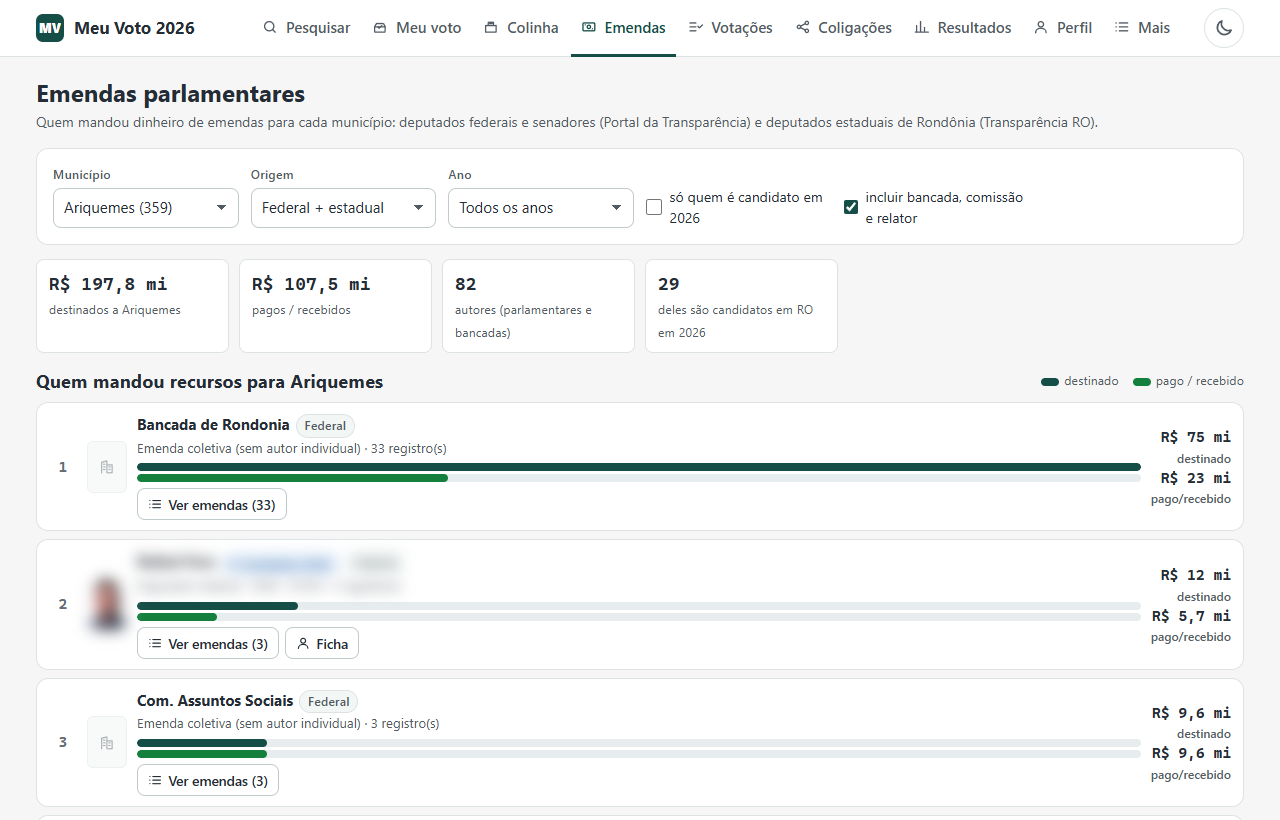
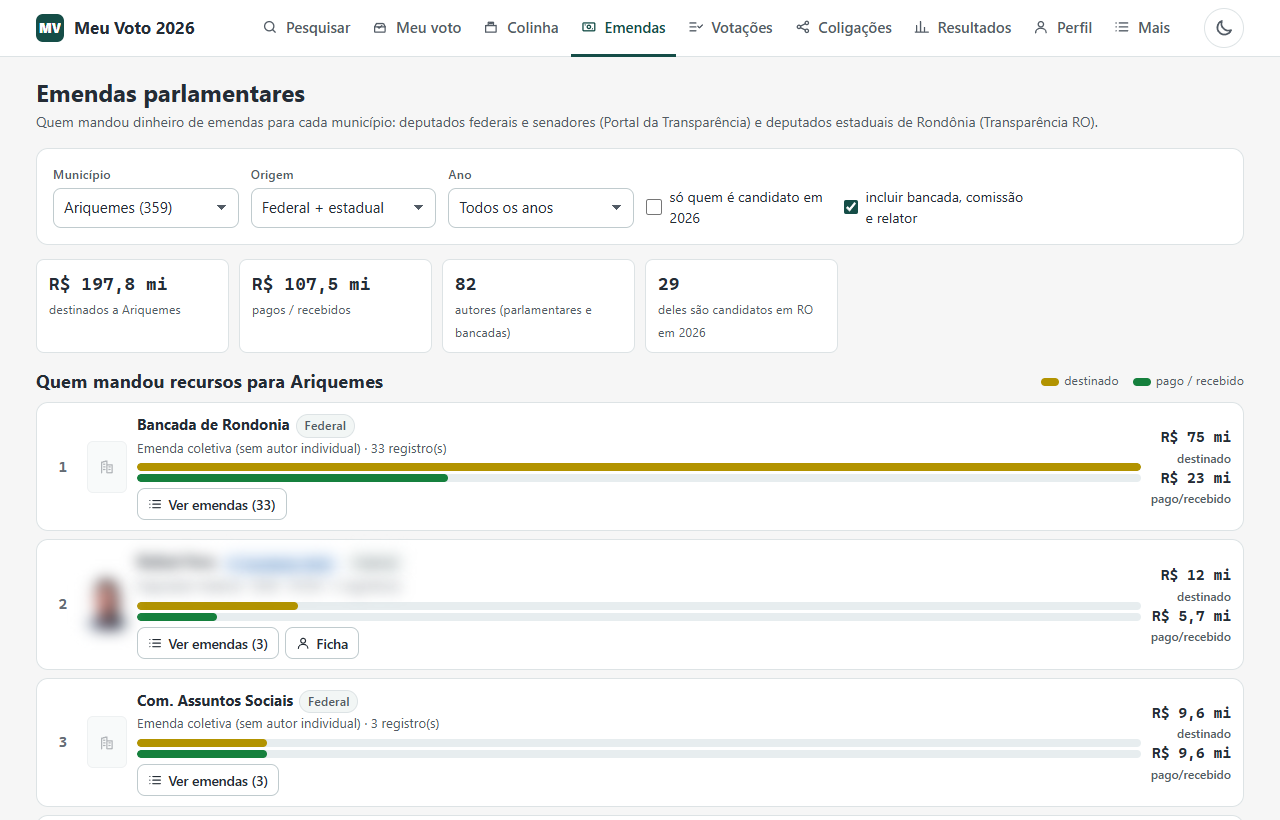
docs(readme): documenta o mapa do Brasil e refaz a captura das emendas

diff --git a/README.md b/README.md
@@ -48,7 +48,8 @@ apenas Rondônia.
   reais (quociente eleitoral, quociente partidário, sobras) e estatísticas (participação por cidade, mais
   votado em cada cidade, perfil dos eleitos, gasto declarado por voto). Para presidente, governador e senador,
   o 1º colocado aparece em destaque e os demais em barras. Um **mapa do estado** mostra o mais votado em cada
-  município, com a cor do partido.
+  município, com a cor do partido. Para presidente, a opção **Brasil** no filtro de estado mostra o **mapa do
+  Brasil** com o mais votado em cada estado; clicar num estado abre o resultado de lá, cidade por cidade.
 - **Tema claro ou escuro**: botão de sol/lua no topo de todas as telas. A escolha fica salva; em Mais dá para
   voltar ao automático, que segue o sistema. As cores seguem a paleta da divulgação de resultados do TSE
   (verde-petróleo e dourado).
@@ -92,6 +93,8 @@ apenas Rondônia.
 | **Resultados** — votos de cada candidato cidade por cidade, situação e por que não foi eleito. | **Resultados** — o cálculo das vagas com os números reais do TSE. |
 | ![Resultados: governador de RO, 1º colocado em destaque e demais em barras](docs/img/resultados-corrida.png) | ![Resultados: mapa de RO com o mais votado em cada município, tema escuro](docs/img/resultados-mapa.png) |
 | **Resultados** — cargos majoritários: 1º colocado em destaque e barras na cor do partido (tema claro). | **Resultados** — mapa do mais votado em cada cidade; clique abre o candidato (tema escuro). |
+| ![Resultados: mapa do Brasil com o mais votado para presidente em cada estado](docs/img/resultados-brasil.png) | |
+| **Resultados** — presidente no Brasil inteiro: mapa por estado; clique leva ao estado. | |
 
 Imagens geradas com os dados oficiais de outubro de 2026 (resultados do 1º turno) e o Perfil em Ariquemes/RO,
 no tema claro (o mapa, no escuro). Quando um candidato aparece sozinho em destaque (Emendas, Colinha, celular,
@@ -290,7 +293,7 @@ python scripts/fetch_votacoes_federais.py --desde 2023 # só a legislatura atual
 python scripts/fetch_resultados.py            # site de divulgação do TSE -> raw/resultados2026/t1/ (~1 min)
 python scripts/baixar_tse.py --so votacao_candidato_munzona_2026   # votos por município e zona (316 MB)
 python scripts/build_resultados.py            # -> data/resultados_XX.js (27 UFs + BR, ~1 min)
-python scripts/build_mapas.py                 # contorno dos municípios (IBGE) -> data/mapa_XX.js (27 UFs, ~800 KB)
+python scripts/build_mapas.py                 # contornos do IBGE -> data/mapa_XX.js (municípios das 27 UFs + estados em mapa_BR.js, ~810 KB)
 python scripts/fetch_resultados.py --turno 2  # depois de 25/10 (2º turno)
 ```
 
@@ -306,7 +309,7 @@ python scripts/fetch_resultados.py --turno 2  # depois de 25/10 (2º turno)
   for idêntico ao do TSE** (quociente, vagas de cada lista e eleitos). As explicações e o "quantos votos
   faltaram" só são gerados sobre esse cálculo conferido. Cargo que o TSE ainda não proclamou (ex.: "Aguarde
   reprocessamento da eleição") aparece como **projeção**, com aviso.
-- **Mapa**: `build_mapas.py` baixa a malha municipal do IBGE (API de malhas, qualidade mínima) uma vez para
+- **Mapa**: `build_mapas.py` baixa a malha municipal do IBGE (e a malha do país com os estados, para o mapa do Brasil) (API de malhas, qualidade mínima) uma vez para
   `raw/malhas/`, converte cada município para o código do TSE (tabela `municipio_tse_ibge`) e grava caminhos SVG
   já projetados. Cada cidade é pintada com a cor do partido do mais votado: quanto mais forte a cor, maior a fatia
   dele nos votos nominais. A sigla está sempre escrita ao lado. As cores dos partidos partem das usadas pelo
@@ -357,7 +360,7 @@ python scripts\testes\rodar_testes.py --cruzado  # tudo + auditoria cruzada com 
 - `teste_ui.py` — abre o sistema no Edge (sem janela): pesquisa, todas as abas e critérios, **todas as fichas
   de RO e presidente**, tela Emendas em todos os municípios e filtros, tela Coligações (deputado federado,
   governador, senador e grupos de cada cargo), tela Resultados (consulta de candidato, ordem das cidades,
-  explicações, troca de estado, link da ficha, card do 1º colocado, mapa e clique no mapa), **tema claro/escuro**
+  explicações, troca de estado, link da ficha, card do 1º colocado, mapa e clique no mapa, opção Brasil com o mapa dos estados e clique que abre o estado), **tema claro/escuro**
   (botão, escolha salva entre as páginas, volta ao automático em Mais, partindo do sistema em claro e em escuro), versão celular, funcionamento sem os
   dados opcionais, **impressão da colinha em PDF A4** (salvo em `scripts/testes/saida/colinha.pdf`) e
   **celulares emulados** (Pixel 7, iPhone 13, Galaxy S9+, iPhone SE: toque, fonte mínima, alvos de toque,
@@ -366,7 +369,7 @@ python scripts\testes\rodar_testes.py --cruzado  # tudo + auditoria cruzada com 
   gerados contra as APIs oficiais (SAPL da ALE-RO, Câmara, Senado) e o TSE, e compara os cálculos feitos no
   navegador com os feitos em Python. Relatório em `scripts/testes/saida/auditoria_cruzada.md`.
 
-Última rodada (06/10/2026, com os resultados do 1º turno): dados 116 OK e interface 233 OK, sem falhas. Os
+Última rodada (06/10/2026, com os resultados do 1º turno): dados 116 OK e interface 238 OK, sem falhas. Os
 avisos foram só de atualidade (PE ainda sem proclamação do TSE; base de candidatos e emendas de alguns dias atrás).
 Última auditoria cruzada (24/09/2026): 32 verificações OK, nenhuma falha e 1 alerta que vem da própria fonte
 (placar de um veto de 2017 no SAPL).
